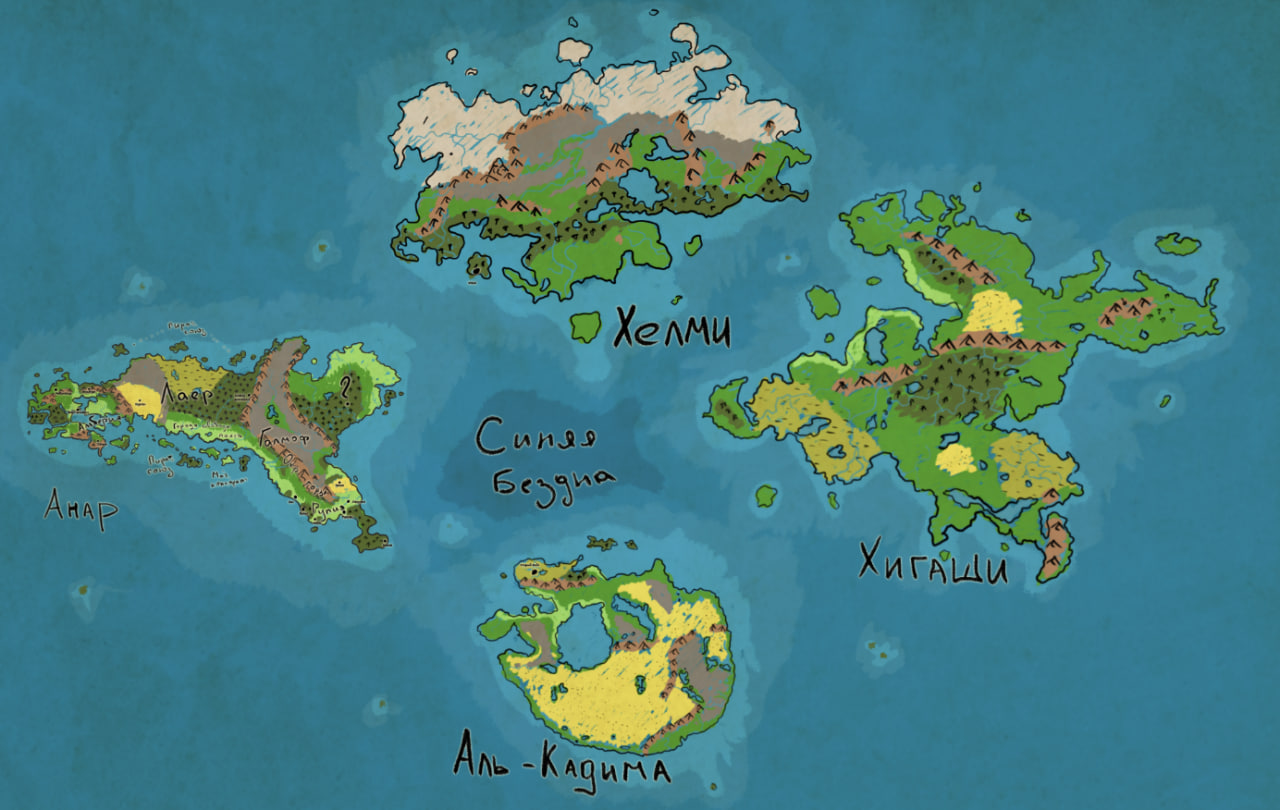
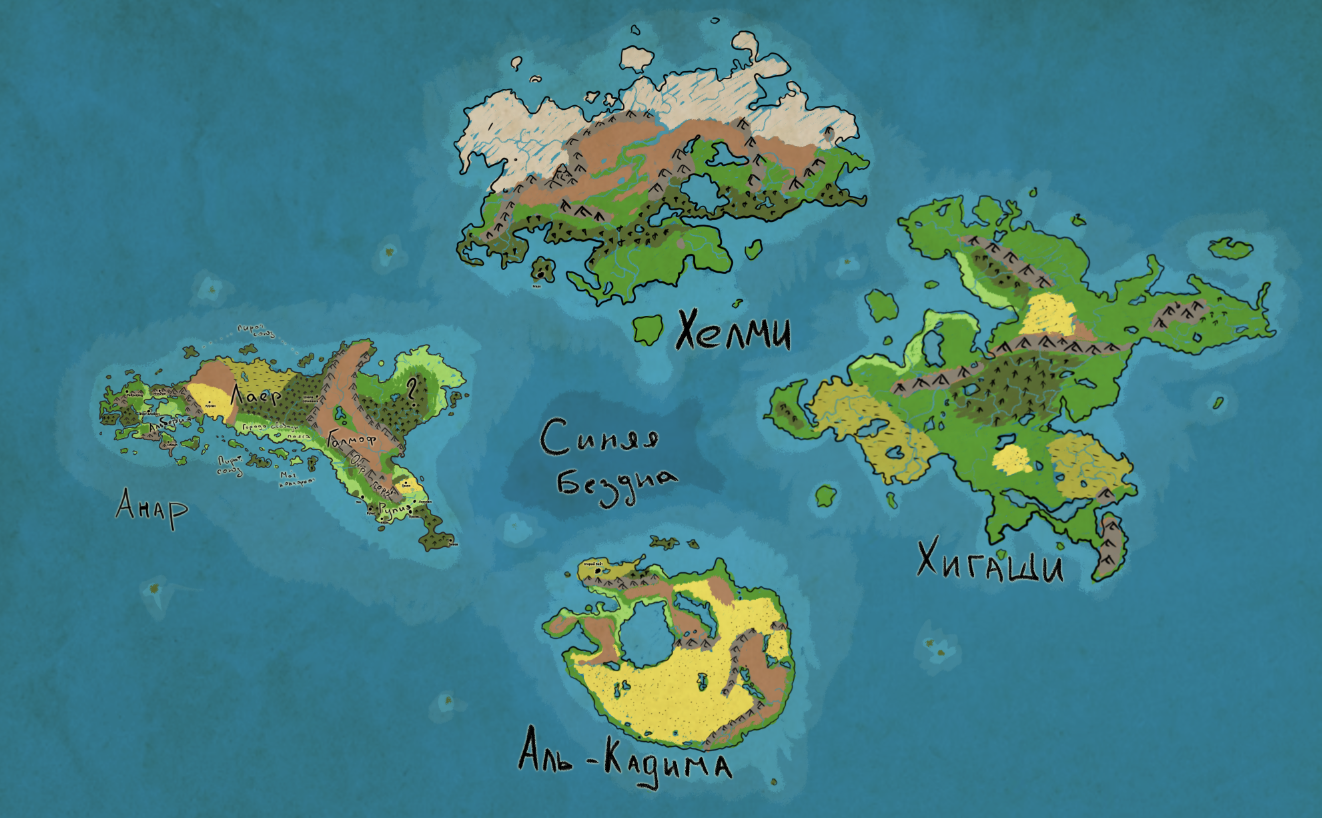
Убрал теги

diff --git a/content/Локации/Анар/Альберия/Ветренный край.md b/content/Локации/Анар/Альберия/Ветренный край.md
@@ -1,6 +1,22 @@
-Западная часть [[Альберия|Альберии]]
+На западе [[Альберия|Альберии]] раскинулся Ветренный Край — широкая равнинная область, где поля уходят за горизонт, а нескончаемые ветра поют в траве. Это край свободных всадников, великих табунов и молчаливых курганов, хранящих следы древнейших поселений.
 
-Умеренные регионы, с плодородной землей. 
-Тут большое количество ферм и развитая культура кавалерии.
+### География и климат
+Ветренный Край — это, прежде всего, равнины и степи, с широкими лугами и полями, разбросанными среди холмов. На севере возвышаются пики [[Надломленный хребет|надломленного хребта]] — горной гряды, чьи вершины обрываются скалами и ущельями. На юге он граничит с жаркой [[Эллада|Элладой]].
+Ветра здесь постоянны, иногда шквальные, но почти всегда тёплые. Они дуют с севера, со стороны гор, проносятся по долинам и поднимают клубы пыли, создавая ощущение живой, дышащей земли.
+### Народ и уклад
 
-Крупный город - [[Реброград]]
+Регион населяют люди — сильные, выносливые, свободолюбивые. Их жизнь неотделима от земли и лошадей. Они умеют пахать, воевать и петь. Именно отсюда происходит основная кавалерия Альберии, и в каждом доме найдется седло, а на любом холме — тренировочный круг.
+По духу и укладу они своевольны: боевые артели, общинная самоорганизация, уважение к старшим, традиция живой песни и оружия наготове.
+
+### Столица — Ребрица
+
+Столица региона — город Ребрица. Он расположен в уникальной долине, над которой возвышаются гигантские скалы, похожие на ребра каменного зверя, местами соединённые природными мостами, перекинутыми в воздухе. Под ними раскинулась большая равнина, где пасутся кони и проходят ярмарки, турниры, народные гуляния.
+Ребрица — это центр коневодства, военной школы и культуры всадников, а также крупный торговый узел между внутренними землями и югом.
+
+### Легенда о Лошади-Матери
+Среди местных широко распространён миф о Лошади-Матери — прародительнице всех табунов Ветренного Края. Её изображают как величественную серебряную кобылицу с глазами, как озёра, и гривой, что шумит, как ветер в степи. Говорят, что она может появиться в самый трудный час, чтобы увести своих детей от гибели. Ей приносят дары, плетут ленты, украшают жердочки, и даже устраивают праздник рождения табуна, где детям рассказывают сказки о ней.
+
+### Опасности
+Регион считается относительно безопасным, но не без тайн. В холмах разбросаны старые курганы, остатки древних людских поселений, чья история давно утеряна. Иногда из них слышатся звуки или исходит холод, и старейшины советуют не тревожить тех, кто там спит.
+
+Также в горах обитают огромные орлы, величественные и опасные, особенно если угрожать их гнёздам. Поговаривают, что некоторые из них разумны и помнят времена, когда Ветренный Край принадлежал совсем другим народам.

diff --git a/content/Локации/Анар/Рупия/Эллада.md b/content/Локации/Анар/Рупия/Эллада.md
@@ -1,6 +1,20 @@
-Гористый полуостров на юге [[Альберия]]
-Заселен в основном людьми, несмотря на прошлое. 
-Ранее тут располагалось эльфийское государство [[Эллада (государство)]], но оно  пало во время событий: [[Падение Эллады]]
-В регионе находится множество руин и артефактов времен старой Эллады, такие как [[Амфора полета]]
+# Жемчужина юга
+**Регион внутри страны [[Альберия]]**, Эллада расположена на скалистом южном полуострове, омываемом с юга открытым океаном, а с севера — спокойными водами [[Острое море|Острого моря]]. В центре полуострова величественно возвышается гора [[Олимп]] — самая высокая вершина страны и древний ориентир для всех, кто ищет в этих краях что-то большее, чем просто солнце и вино.
 
-В центре расположена самая высока гора полуострова - [[Олимп]]
+### География и климат
+Полуостров покрыт скалистыми хребтами и плоскогорьями, но в прибрежных зонах почва плодородна. Эллада купается в тёплом климате: тёплые зимы, жаркое лето, морские ветра, бесконечные виноградники и рощи олив.
+
+###  Наследие эльфов
+Когда-то Эллада была центром одноименной эльфийской [[Эллада (государство)|страны]]. Грациозные акведуки, мозаичные храмы, полузабытые святилища и удивительной архитектуры дома до сих пор украшают старые кварталы и скрытые долины. Однако эльфы ушли, и сегодня регион населяют в основном люди.
+Редко можно встретить полуэльфов, а уж чистокровного эльфа увидеть — почти легендарная удача. Эллада остаётся одним из немногих регионов, где их присутствие не воспринимается как аномалия.
+
+### Столица Олимп
+Город Тесалон — портовый центр региона. Он построен людьми: оранжевые черепичные крыши, белёные фасады, арочные балконы. Однако в «Старом городе» до сих пор стоят  эльфийские здания, и воздух там как будто вибрирует от памяти ушедших эпох.
+### Культ Диониса и магическая вера
+Из древней пятерки элладийских полу-богов ([[Синедрион]]), остался лишь  [[Дионис]], бог вина, наслаждений, кутежа и свободы. Его культ по-прежнему активен: ночные шествия, винные фестивали, карнавальные ритуалы и тайные встречи при лунном свете. Ходят слухи, что сам Дионис, приняв человеческий облик, иногда ходит по улицам Олимпа, проверяя, не забыла ли Эллада, и что такое жизнь в удовольствие.
+
+### Угрозы и тайны
+Несмотря на красоту, регион не безопасен. Древние эльфийские подземелья, изрезавшие полуостров, полны ловушек, забытых механизмов и магических аномалий. Случайные путники, решившие попробовать счастья, часто исчезают бесследно. 
+Однако в них осталось множество артефактов времен старой Эллады, такие как:
+[[Амфора полета]]
+[[Бутылка с бесконечным вином]]

diff --git a/content/Локации/Анар/Альберия/Надломленный хребет.md b/content/Локации/Анар/Альберия/Надломленный хребет.md
@@ -1,1 +1,22 @@
-Тут наложили заклятье на род [[Скармуш]], но они разьебали гору. 
+### География:  
+Надломленный хребет — это величественная и суровая горная цепь, начинающаяся на севере [[Ветренный край|Ветренного края]] и протянувшаяся далеко на восток. Горный рельеф высок, местами покрыт вечными снегами, но между вершинами пролегает множество перевалов, делающих путь через горы трудным, но возможным. В центральной части хребта, ближе к западу, горы внезапно уступают место широкой равнине. По древним легендам, она образовалась на месте колоссального [[Надлом хребта|сражения]], настолько разрушительного, что даже горы дрогнули и рухнули.
+
+### Климат:  
+Регион отличается суровым климатом: сильные ветра, резкие перепады температур и снежные шапки на вершинах круглый год. Однако в долинах и у подножий возможна жизнь — здесь расположены поселения людей и твердыни дварфов.
+
+### Население:  
+В восточной части хребта располагается обособленная дварфийская автономия, входящая в состав [[Альберия|Альберии]] на правах союзного образования. Дварфы обитают под землёй, выстраивая могущественные твердыни с внешними торговыми бастионами, через которые ведут дела с людьми. Люди тоже присутствуют в регионе, в основном в долинах и около перевалов. Многие поселения возникли вокруг дварфийских крепостей, формируя смешанную приграничную культуру.
+
+### Столица региона:  
+У подножья горы, разломанной древним порталом из иного мира — Гипербореи, расположен [[Разград]] — древняя столица Альберии. Сейчас она утратила свой политический статус, но остаётся культурным и сакральным центром. Здесь обитает [[Древний орден]], хранящий память о прибытии человечества в этот мир. Сам Разград построен у зияющей трещины в теле горы — врат, откуда [[Падение Гипербореи|вышли]] первые люди.
+
+### Культура и архитектура:  
+Архитектура региона — суровая, каменная, порой монументальная.
+- Дворфийские твердыни имеют массивные арочные проходы, мозаики из малахита и обсидиана, идущие в глубь гор.
+- Человеческие поселения с остроконечными крышами, каменные мостовые, крепости.  Здесь крепко чтут традиции, и каждый дом как будто стоит не просто на земле, а на памяти предков.
+### Роль в Альберии:  
+Хребет служит естественной крепостной стеной, отделяющей цивилизованную Альберию от варварских племён [[Лаер|Лаера]], обитающих за восточной чертой. В случае войны войска Альберии отступают в дварфийские твердыни, укрепляясь в скалистых бастионах. Договор с дварфами, заключённый века назад, гарантирует защиту и доступ к форпостам, что делает хребет неприступной границей.
+
+### Опасности и мифы:  
+Помимо природных угроз, в недрах гор по сей день сохраняются глубинные руины — то ли забытые города древнейших народов, то ли следы иных миров.  
+Ходят слухи о чудовищах из разлома, обитателях бездны, охраняющих тайны портала. Есть легенды о том, что врата Гипербореи однажды вновь откроются, но что будет за ними никто не знает.

diff --git a/content/index.md b/content/index.md
@@ -7,9 +7,9 @@
 ### 🌐 **[[Строение мира]]**
 Как работают порталы? Что такое Осколки? Где проходит грань между магией и наукой? Здесь всего этого нет, раздел в разработке. 
 ### 🗺️ **[[Осколки Этернии]]**
-От магических чудес Анара до жарких гаваней Аль-Кадира, каждый Осколок уникален. Вы узнаете, где процветают народы, а где — лишь пустошь.
+От магических чудес Анара до жарких гаваней Аль-Кадира, каждый Осколок уникален. Вы узнаете, где процветают народы, а где — не ступала нога гуманоида.
 ### 🎭 **[[Персонажи игроков]]**
-Те, кто двигает историю вперёд. Их мотивации, слабости, героизм и идиотизм — всё это документировано, чтобы потом было не стыдно (или наоборот — очень).
+Те, кто двигает историю вперёд. Их мотивации, слабости, героизм и идиотизм — всё это документировано, чтобы потом было стыдно (или наоборот — не очень).
 ### 🧩 **[[НПС]]**
 Жители мира, которые не знают, что мир — это игра. Кто-то из них станет союзником, кто-то — врагом, а кто-то просто нальёт вам кружку в нужный момент.
 ### 🕯️ **[[Легендарные личности Рупия|Легендарные личности]]**
@@ -17,7 +17,7 @@
 ### 🗝️ **[[Артефакты]]**
 Мир Этернии хранит вещи, которые не подчиняются законам времени, материи и здравого смысла. Артефакты, найденные или созданные, могут менять ход сражений, наций — или сознания, а могут быть простой безделушкой, которая просто лежит на дне сумки.
 ### 📖 **[[Легенды]]**
-Эти истории точно происходили, наверное. Здесь собраны великие войны, древние катастрофы и сплетни, которым тысяча лет.
+Эти истории точно происходили... наверное. Здесь собраны великие войны, древние катастрофы и сплетни, которым тысяча лет.
 
 
 

diff --git a/content/Локации/Анар/Альберия/Олимп.md b/content/Локации/Анар/Альберия/Олимп.md
@@ -1,3 +1,3 @@
-Огромная гора с сильной [[Драконья жила]]
-Располагается посередине горного массива [[Эллада]]
+Огромная гора с сильной [[Драконья жила|драконьей жилой]]
+Располагается посередине горного массива [[Эллада|Эллады]]
 Тут базировался [[Синедрион]]

diff --git a/content/Заметки и истории/Падение Бейита.md b/content/Заметки и истории/Падение Бейита.md
@@ -1,0 +1,3 @@
+Город [[Бейит]] захватил огромный зеленый дракон около пятисот лет назад.
+
+[[Фокос]] не успел 

diff --git a/content/Легендарные личности Рупия/Фокос.md b/content/Легендарные личности Рупия/Фокос.md
@@ -1,2 +1,3 @@
 Особый гномий герой
-Он действительно много сделал для гномов, но из-за его задержки пал Бейит
+Волшебник иллюзии
+Он действительно много сделал для гномов, но из-за его задержки пал [[Бейит]]

diff --git a/content/Заметки и истории/Падение Эллады.md b/content/Заметки и истории/Падение Эллады.md
@@ -1,6 +1,6 @@
 [[Эллада (государство)|Эллада]] переживала времена застоя. Не смотря на внешнее процветание государство больше не двигалось вперед. [[Синедрион#Синедроил|Синедроилы]] постепенно обретали божественность, а значит все реже спускались к простому люду. 
 
-Тем временем на севере, в [[Древний перешеек|древнем перешейке]] открылся портал. Портал, что впустил в [[Анар]] нечто странное - людей.  И это странность всепоглощающе стала распространяться в этом мире, заполняя собой равнины, моря горы и леса. Их руки дотянулись и до Эллады. Нет это не было захватческим рейдом, актом агрессии. Просто со временем в этих землях становилось больше людей чем эльфов. Больше всего пострадали и так не большие поселения Ареса.  
+Тем временем на севере, в [[Надломленный хребет|надломленном хребте]] открылся портал. Портал, что впустил в [[Анар]] нечто странное - людей.  И это странность всепоглощающе стала распространяться в этом мире, заполняя собой равнины, моря горы и леса. Их руки дотянулись и до Эллады. Нет это не было захватческим рейдом, актом агрессии. Просто со временем в этих землях становилось больше людей чем эльфов. Больше всего пострадали и так не большие поселения Ареса.  
 
 [[Арес]] был крайне недоволен ситуацией. Он призывал очистить Элладу, вытравить этих тараканов. [[Афина]] же была против. Она видела красоту в том, как быстро меняются люди, как они суетятся. Не смотря на то, что век их недолог, люди оставляют свой след и след этот переживет и человека, что его оставил и сына его, и внука и того что будет жить даже спустя не одну эльфийскую жизнь. Древние дороги будут влиять на тех, кто будет жить тогда, когда от них и следа не останется. 
 

diff --git a/content/Локации/Анар/Древняя империя людей/Первая империя людей.md b/content/Локации/Анар/Древняя империя людей/Первая империя людей.md
@@ -1,4 +1,4 @@
-Располагалась тысячи лет назад на территории [[Древний перешеек]]
+Располагалась тысячи лет назад на территории [[Надлом хребта]]
 
 Государство, в основном населённое людьми, сбежало из другого мира, называемого Гиперборея. 
 [[Волшебник Гипербореи]] открыл портал, после чего был образован культ [[Десять]]

diff --git a/content/НПС/Альберия/В глубине/Артур.md b/content/НПС/Альберия/В глубине/Артур.md
@@ -1,4 +1,4 @@
-#Человек
+Человек
 Темные короткие волосы. Статный. Небольшая небритость. 
 За спиной виднеется большой черный меч. 
 Одет в кожаную броню, под ней виднеется черная ряса. 

diff --git a/content/НПС/Альберия/В глубине/Ингвар.md b/content/НПС/Альберия/В глубине/Ингвар.md
@@ -1,4 +1,4 @@
-#Человек
+Человек
 Старец родом из северного [[Марк|Марка]] 
 Одет в белоснежно белую мантию. 
 Создал [[Спрятанная в глубине]] и установил там секту

diff --git a/content/НПС/Альберия/В глубине/Кальрих.md b/content/НПС/Альберия/В глубине/Кальрих.md
@@ -1,4 +1,4 @@
-#Человек
+Человек
 Принц [[Альберия]]
 Сын [[Винцент 7 Тихий]]
 